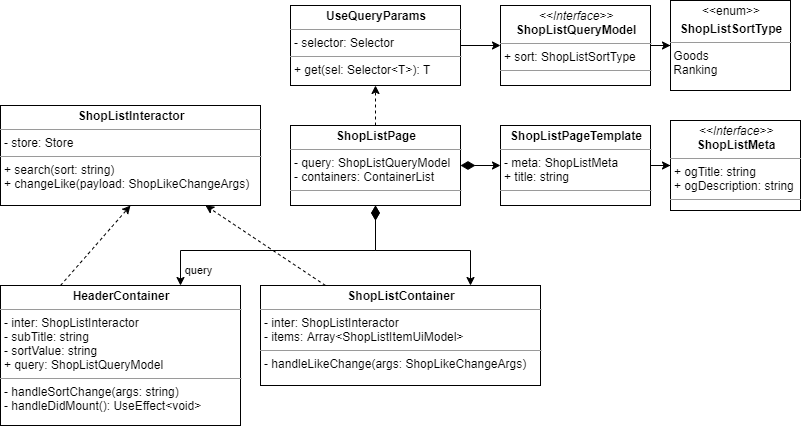
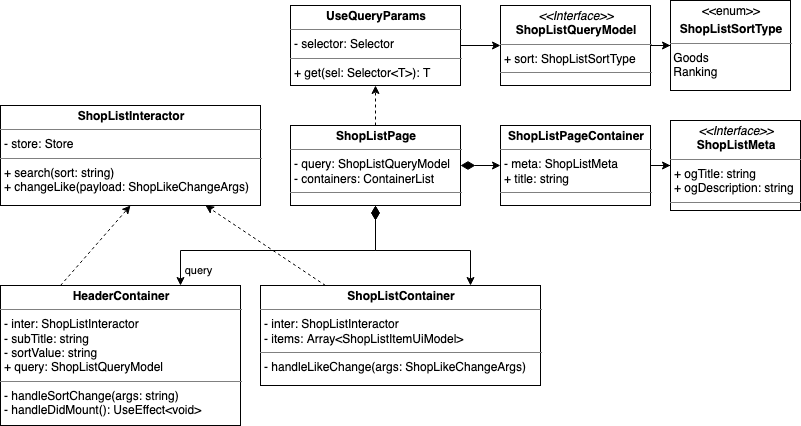
docs: PageTemplate -> PageContainer 로 원래 명칭으로 변경

diff --git a/sw-design/ui-design-010.md b/sw-design/ui-design-010.md
@@ -1,8 +1,8 @@
-# UI Component Design - 10. 페이지 템플릿 작성
+# UI Component Design - 10. 페이지 컨테이너 작성
 
-## 페이지 템플릿
+## 페이지 컨테이너
 
-페이지 템플릿(Page Template)은 다음과 같은 역할을 맡습니다.
+페이지 컨테이너(Page Container)은 다음과 같은 역할을 맡습니다.
 
 - 페이지의 전체 레이아웃 잡아주기
   - 전체 영역을 가운데로 몰아주거나 상하좌우 동일 여백을 넣어주는 등의 조치
@@ -11,7 +11,7 @@
 
 이 중 레이아웃과 헤더/푸터 역할을 위한 표현 컴포넌트(Presentational Component)를 포함할 수 있습니다.
 
-페이지 템플릿은 페이지 컴포넌트와 컨테이너들 처럼 CSS 같은 스타일링이 코드에 포함되는 걸 권장하지 않습니다.
+페이지 컨테이너는 페이지 컴포넌트와 컨테이너들 처럼 CSS 같은 스타일링이 코드에 포함되는 걸 권장하지 않습니다.
 
 또 한 Context 같은 상태 관리기를 사용할 수 있으나 어디까지나 meta data 용도로만 쓰여야 합니다.
 
@@ -23,7 +23,7 @@
 
 진행하기 앞서 하나 알려 드리자면,
 
-초기 분석 과정에서 페이지 템플릿이 전혀 고려 되지 않았습니다.
+초기 분석 과정에서 페이지 컨테이너가 전혀 고려 되지 않았습니다.
 
 이유는 현재 제공된 시안 만으로는 헤더/푸터의 중복 여부를 알 길이 없었으며 거의 앱전용 화면이라 네비게이션도 존재하지 않았기 때문입니다.
 
@@ -41,7 +41,7 @@
 
 어떤가요?
 
-위에 정의된대로 페이지 템플릿에 들어갈 만한 요소가 보이시나요?
+위에 정의된대로 페이지 컨테이너에 들어갈 만한 요소가 보이시나요?
 
 음.. 🤔
 
@@ -92,7 +92,7 @@
 
 ### 중요한 것은 데이터
 
-이제 페이지 템플릿을 다이어그램으로 그려 볼겁니다.
+이제 페이지 컨테이너을 다이어그램으로 그려 볼겁니다.
 
 앞서 말씀드렸듯이 클래스 다이어그램엔 디자인과 스타일링에 대한 내용은 존재하지 않습니다.
 
@@ -100,7 +100,7 @@
 
 네! 데이터 입니다.
 
-페이지 템플릿이 가진 데이터는?
+페이지 컨테이너이 가진 데이터는?
 
 바로 메타 데이터 입니다.
 
@@ -110,7 +110,7 @@
 
 언급된 open-graph 필드 2개를 나타내었습니다.
 
-아래는 페이지 템플릿에 대한 다이어그램을 함께 표현 한 것입니다.
+아래는 페이지 컨테이너에 대한 다이어그램을 함께 표현 한 것입니다.
 
 ![](images/ui-design-010/ui-design-010-pt002.png)
 
@@ -120,7 +120,7 @@
 
 만약 제목이 메타 데이터와 맥락을 함께하며 외부를 통한 변경 요인이 전혀 없다면 메타 모델(Meta Model)에 포함시켜 표현해도 전혀 문제 없습니다.
 
-참고로 만약 헤더/푸터가 포함된 페이지 템플릿이면 아래와 같이 나타낼 수 있습니다.
+참고로 만약 헤더/푸터가 포함된 페이지 컨테이너이면 아래와 같이 나타낼 수 있습니다.
 
 ![](images/ui-design-010/ui-design-010-pt003.png)
 
@@ -143,7 +143,7 @@ const PageContainer: FC<Props> = ({ title, children }) => {
 
 이 때 `<meta>` 요소를 저 헬멧 선언과 동시에 사용해야 하기 때문에 실제론 모델로 따로 추출 해 놓는 것이 의미가 없을 수 있습니다.
 
-다만, 설계도를 보고 `아~ 템플릿에 필요한 메타 데이터가 이런게 있구나` ..라는 것을 기록해 놓는 것에 의의를 가지면 되겠습니다.
+다만, 설계도를 보고 `아~ 페이지 컨테이너에 필요한 메타 데이터가 이런게 있구나` ..라는 것을 기록해 놓는 것에 의의를 가지면 되겠습니다.
 
 한편 메타 데이터 모델이 Context 나 Store 출신이고 거기에 선택자(Selector)를 붙인다면 반대로 굉장히 큰 의미가 있게 됩니다!
 
@@ -155,7 +155,7 @@ const PageContainer: FC<Props> = ({ title, children }) => {
 
 사실 본 내용은 페이지 컴포넌트 작성 때 포함하려 했으나
 
-그게 내용이 너무 길어져서 페이지 템플릿 부분을 부득이하게 따로 분리 하였습니다.
+그게 내용이 너무 길어져서 페이지 컨테이너 부분을 부득이하게 따로 분리 하였습니다.
 
 이제 끝이 얼마 안남은거 같네요~
 

diff --git a/architecture/atomic-design.md b/architecture/atomic-design.md
@@ -235,8 +235,8 @@ export const MobileViewPanel: FC<ViewPanelProps> = (props) => {
 ```
 
 ```tsx
-// ./feature/components-desktop/atoms/DesktopViewPanel.tsx
-import { ViewPanelProps } from '../../components';
+// ./feature/components/atoms/DesktopViewPanel.tsx
+import { ViewPanelProps } from './MobileViewPanel';
 
 // 데스크탑 컴포넌트 선언
 export const DesktopViewPanel: FC<ViewPanelProps> = (props) => {
@@ -247,7 +247,7 @@ export const DesktopViewPanel: FC<ViewPanelProps> = (props) => {
 ```ts
 // ./feature/components/atoms/ViewPanelAdaptive.ts
 import { ViewPanelProps, MobileViewPanel } from './MobileViewPanel';
-import { DesktopViewPanel } from '../../components-desktop';
+import { DesktopViewPanel } from './DesktopViewPanel';
 
 // 적응형 컴포넌트 선언.
 // 반드시 generic 으로 공통된 Props 를 넣어준다.

diff --git a/sw-design/ui-design-009.md b/sw-design/ui-design-009.md
@@ -17,7 +17,7 @@
   - next.js 를 쓸 경우 folder 를 이용한 route system 에서만 사용 가능
 - 컨테이너 컴포넌트(Container Component)를 사용하여 업무 구성
 - Path Parameter, Query Parameter 를 받아서 하위 컨테이너에 내려주는 역할
-- `페이지 템플릿 컴포넌트(Page Template Component)`를 사용할 수 있는 유일한 컴포넌트
+- `페이지 컨테이너 컴포넌트(Page Container Component)`를 사용할 수 있는 유일한 컴포넌트
 
 반면, 하면 안되는 역할을 다음과 같습니다.
 
